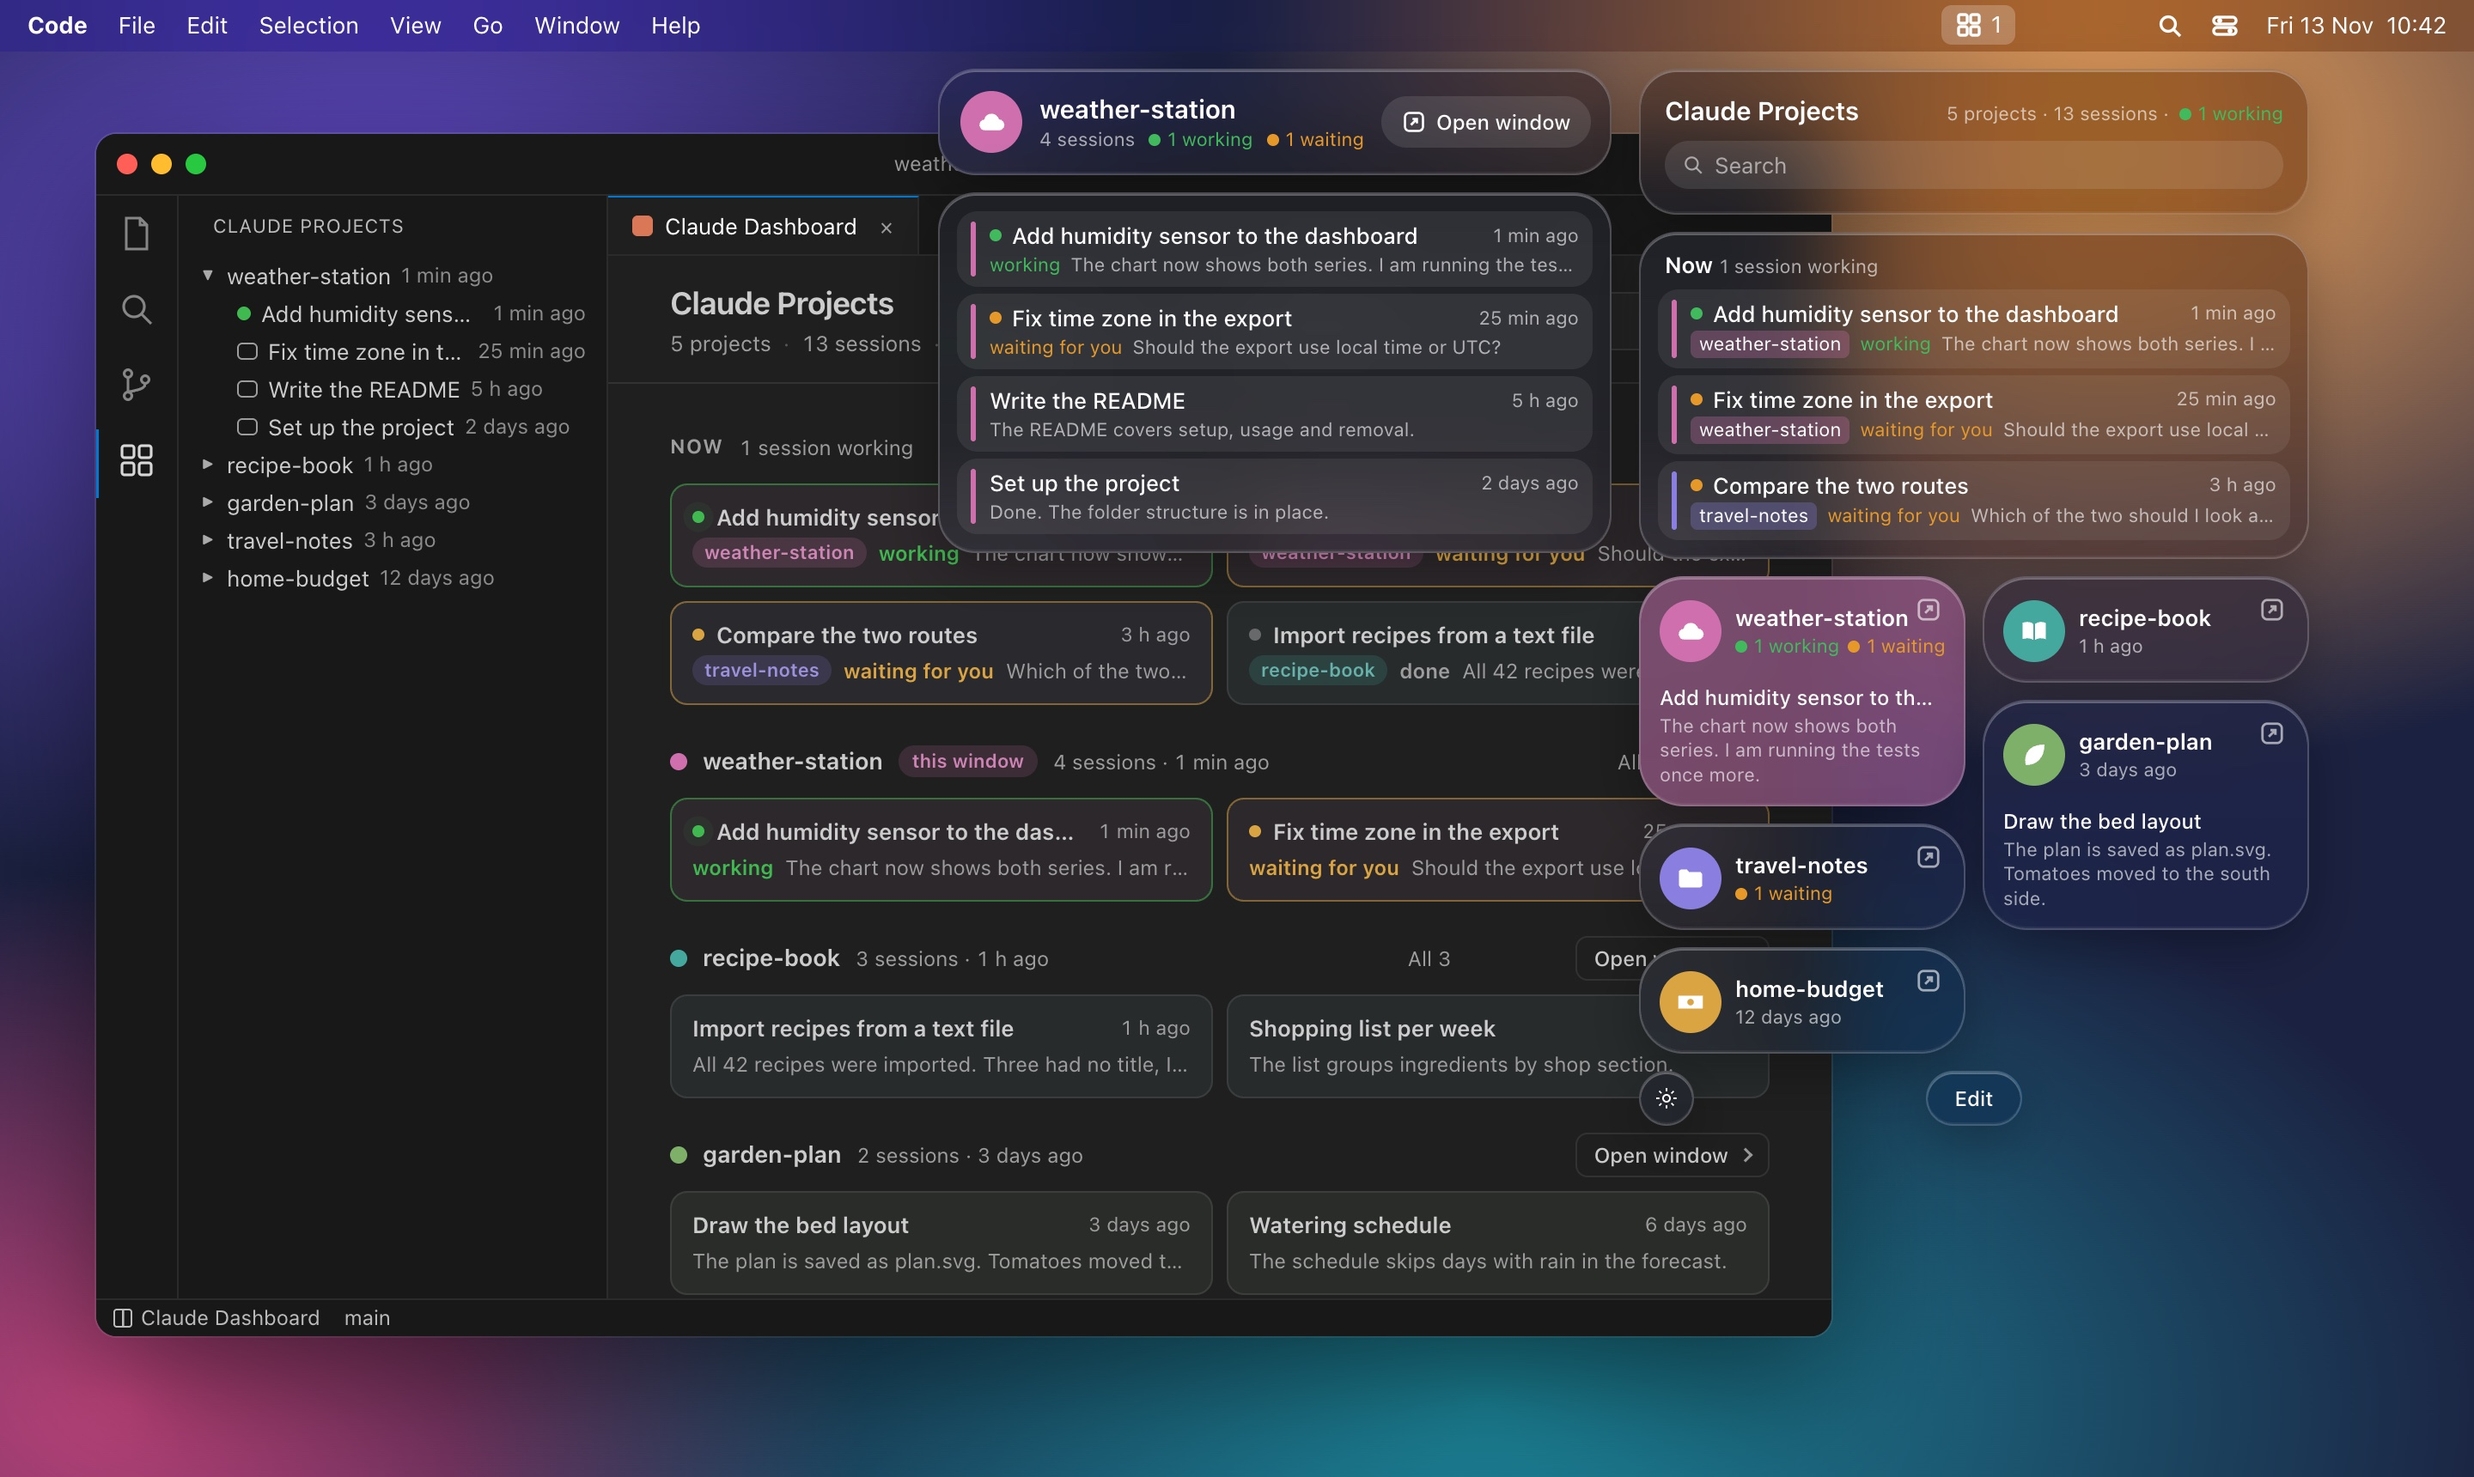
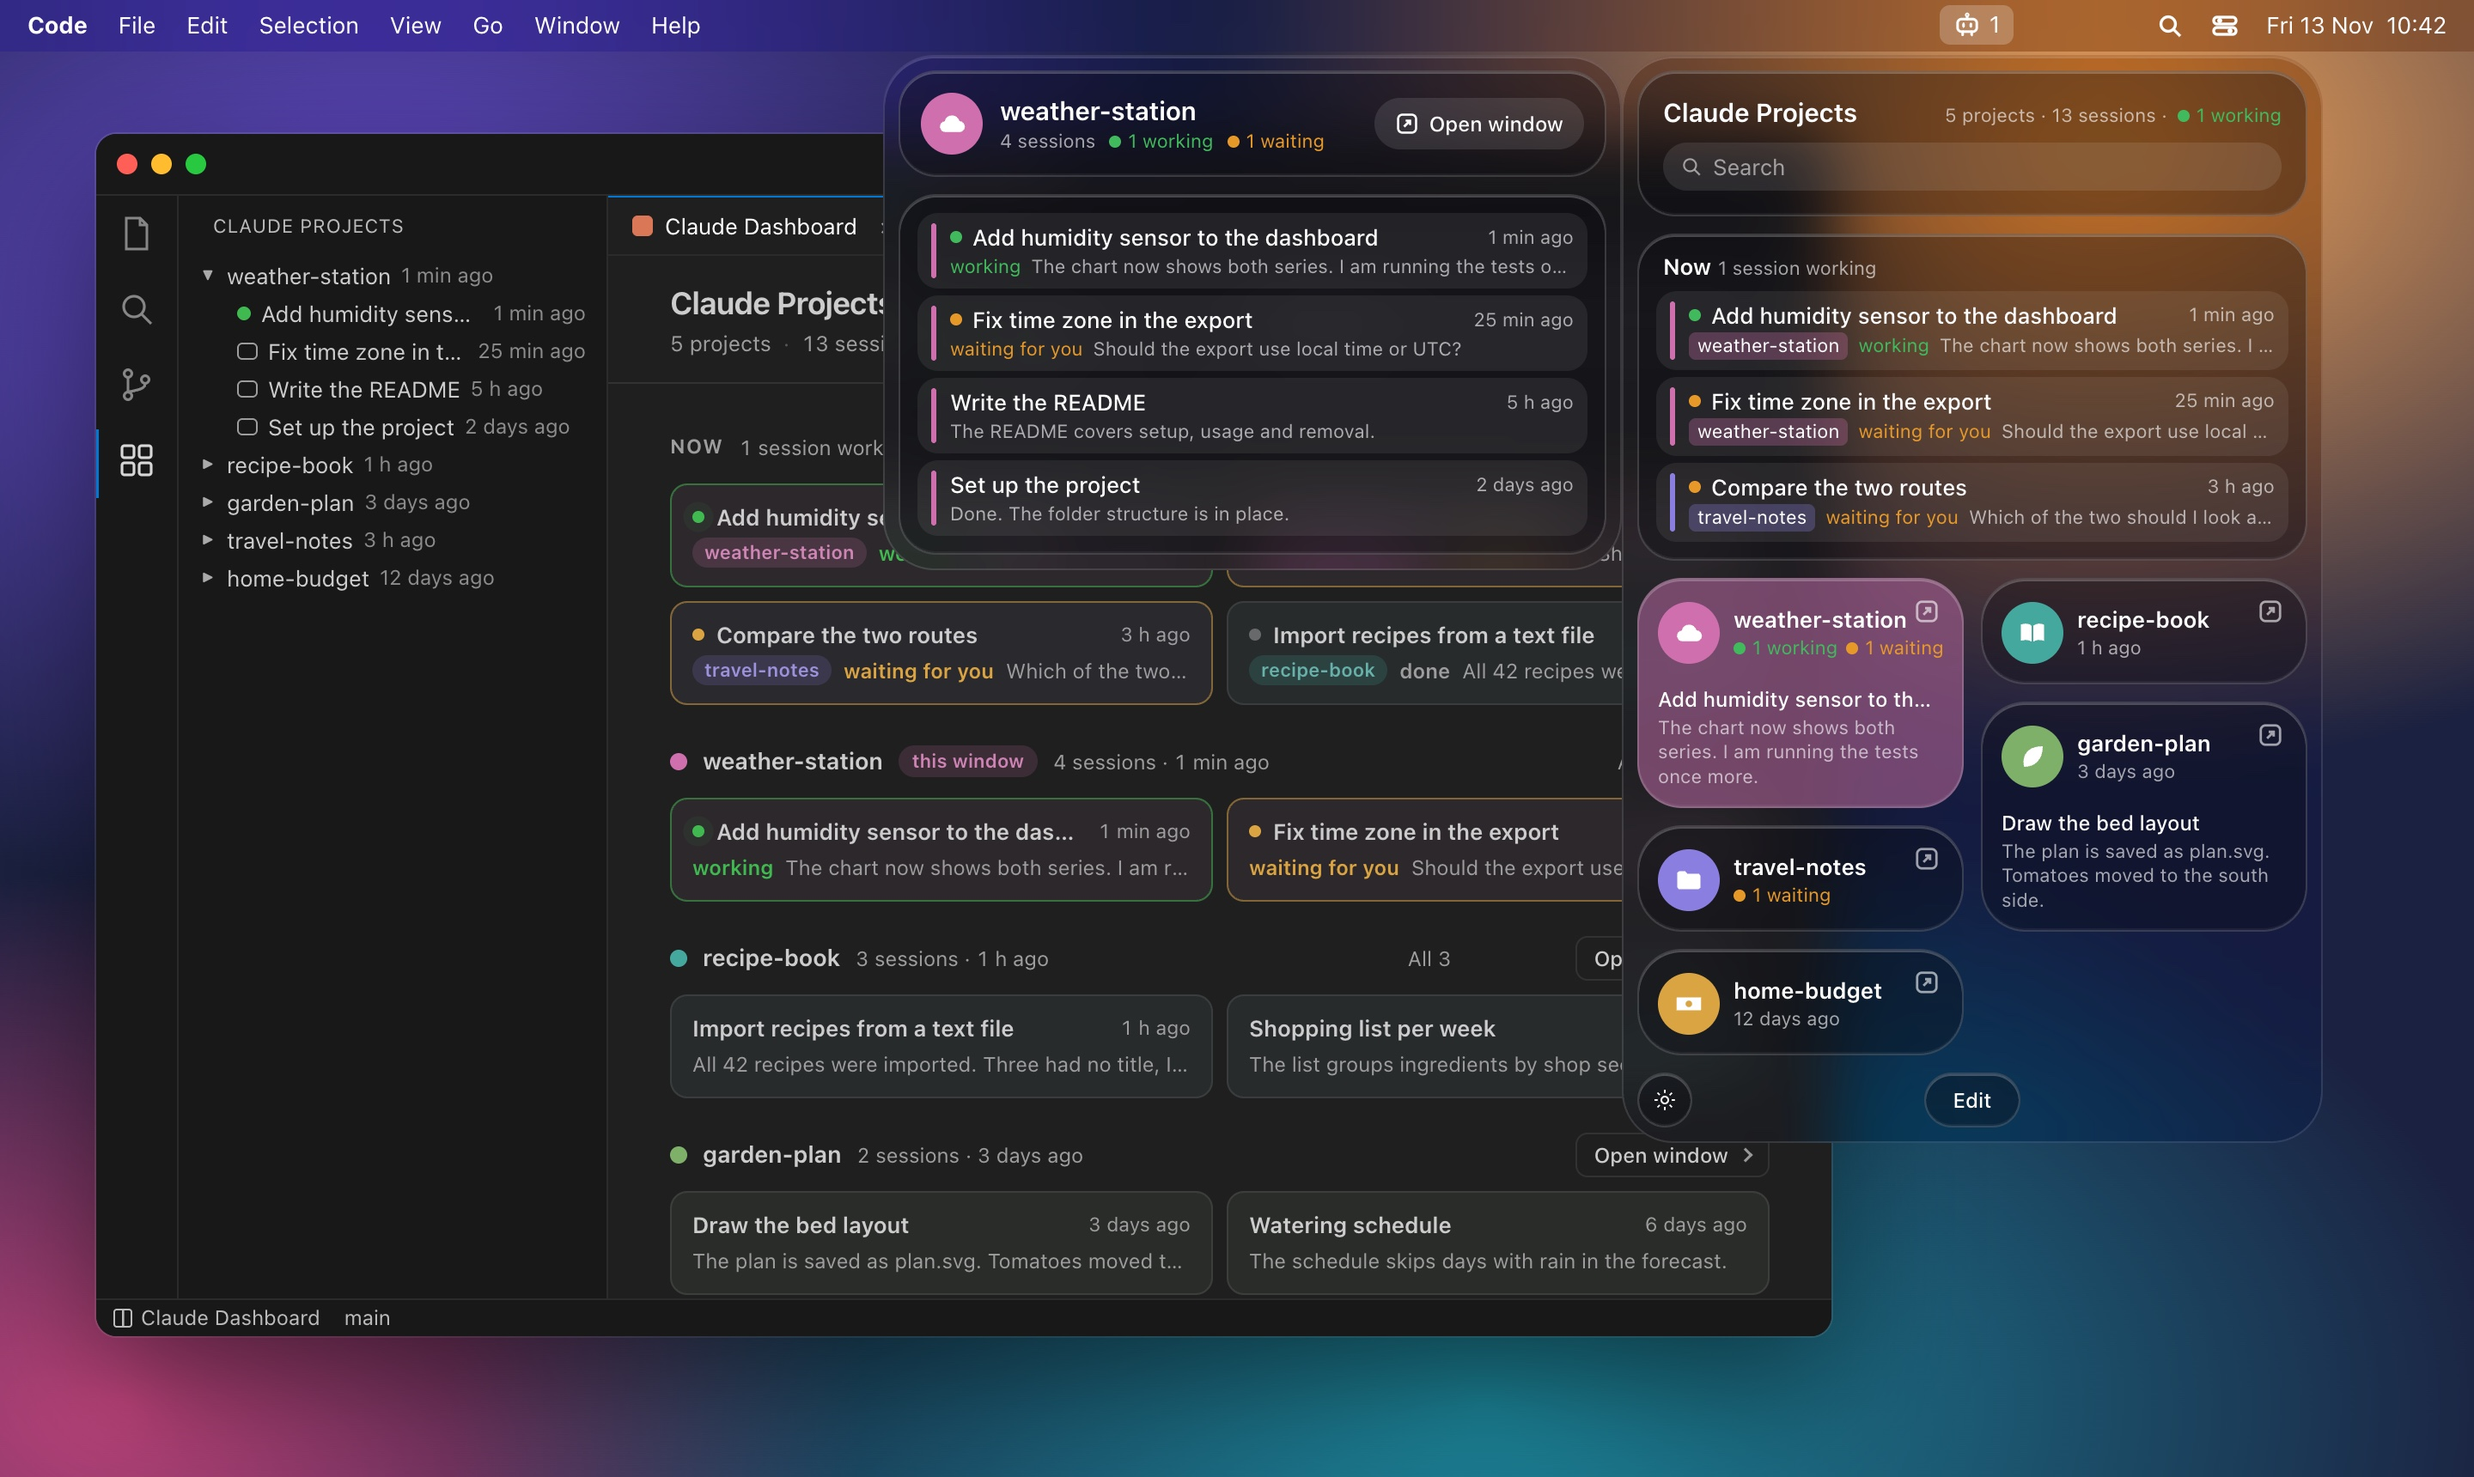
Claude Dashboard 0.3.1
README pictures and the demo page show the current look of the menu bar
app (glass pane with soft blur, new icon). Version 0.3.1.

Changed region(s): [[0.3438, 0.0, 0.9375, 0.7703]]

diff --git a/docs/demo/menubar.html b/docs/demo/menubar.html
@@ -33,20 +33,22 @@
     border-radius: 12px; box-shadow: 0 30px 80px rgba(0, 0, 0, .5), 0 0 0 1px rgba(255, 255, 255, .12); z-index: 1; }
 
   /* Glass */
+  /* Cards: clear, slightly darkened glass on the blurred pane below. */
   .glass {
-    background: rgba(38, 40, 52, .46);
-    backdrop-filter: blur(26px) saturate(175%);
-    border: 1px solid rgba(255, 255, 255, .20);
-    box-shadow: inset 0 1px 0 rgba(255, 255, 255, .28), inset 0 -1px 0 rgba(255, 255, 255, .06),
-      0 10px 30px rgba(0, 0, 0, .28);
+    background: rgba(8, 9, 14, .34);
+    border: 1px solid rgba(255, 255, 255, .17);
+    box-shadow: inset 0 1px 0 rgba(255, 255, 255, .22), inset 0 -1px 0 rgba(255, 255, 255, .05);
   }
   .card { border-radius: 22px; }
 
   /* Panels: 8 px below the menu bar, main panel under its icon */
-  .panels { position: absolute; top: 40px; right: 96px; display: flex; align-items: flex-start; gap: 16px; z-index: 4; }
-  .panel { display: flex; flex-direction: column; gap: 10px; }
-  .main { width: var(--main, 390px); }
-  .detail { width: 392px; }
+  .panels { position: absolute; top: 32px; right: 88px; display: flex; align-items: flex-start; z-index: 4; }
+  /* Each part sits on one large pane of glass that softly blurs what is behind. */
+  .panel { display: flex; flex-direction: column; gap: 10px; padding: 8px; border-radius: 30px;
+    background: rgba(16, 18, 26, .30); backdrop-filter: blur(18px) saturate(160%);
+    border: 1px solid rgba(255, 255, 255, .13); box-shadow: inset 0 1px 0 rgba(255, 255, 255, .16); }
+  .main { width: calc(var(--main, 390px) + 18px); }
+  .detail { width: 430px; }
   .secondary { color: rgba(255, 255, 255, .62); }
   .small { font-size: 11px; }
 
@@ -122,7 +124,7 @@
       <svg viewBox="0 0 16 16"><circle cx="7" cy="7" r="4.200"/><path d="M10.200 10.200L14 14"/></svg>
       <svg viewBox="0 0 16 16"><rect x="1.500" y="3" width="13" height="4" rx="2"/><rect x="1.500" y="9" width="13" height="4" rx="2"/><circle cx="5" cy="5" r=".600"/><circle cx="11" cy="11" r=".600"/></svg>
       <span class="me" id="me">
-        <svg viewBox="0 0 16 16"><rect x="2" y="2" width="5" height="5" rx="1.2"/><rect x="9" y="2" width="5" height="5" rx="1.2"/><rect x="2" y="9" width="5" height="5" rx="1.2"/><rect x="9" y="9" width="5" height="5" rx="1.2"/></svg>
+        <svg viewBox="0 0 18 18" stroke-linecap="round" stroke-width="1.35"><rect x="2.7" y="5.2" width="12.6" height="8.2" rx="2.6"/><path d="M9 5.2V3.400M6.600 8.300v1.800M11.400 8.300v1.800M6 13.400v2.200M12 13.400v2.200"/><circle cx="9" cy="2.450" r=".95" stroke-width="1.1"/></svg>
         <span>1</span>
       </span>
       <span>Fri 13 Nov&nbsp;&nbsp;10:42</span>
@@ -250,7 +252,7 @@
   document.getElementById('panels').innerHTML = detail + main;
   // The app's icon sits above the middle of the main panel.
   const mainWidth = columns * 190 + (columns - 1) * 10;
-  document.getElementById('me').style.right = 96 + mainWidth / 2 - 24 + 'px';
+  document.getElementById('me').style.right = 88 + (mainWidth + 18) / 2 - 24 + 'px';
 </script>
 </body>
 </html>

diff --git a/README.md b/README.md
@@ -65,8 +65,10 @@ sessions.
   width of the panel, and **Start at login** (off by default).
 - Colors and the archive are shared with the VS Code dashboard. Order,
   symbols, tile sizes and columns belong to the app.
-- Uses Liquid Glass on macOS 26 and the standard blur material on older
-  versions.
+- Uses clear Liquid Glass on macOS 26 and the standard blur material on older
+  versions. The soft blur behind the glass comes from a window server function
+  that is not part of the documented API; should a future macOS drop it, the
+  panel works the same, just without that blur.
 
 ![Edit mode with three columns](docs/menubar-edit.jpg)
 
